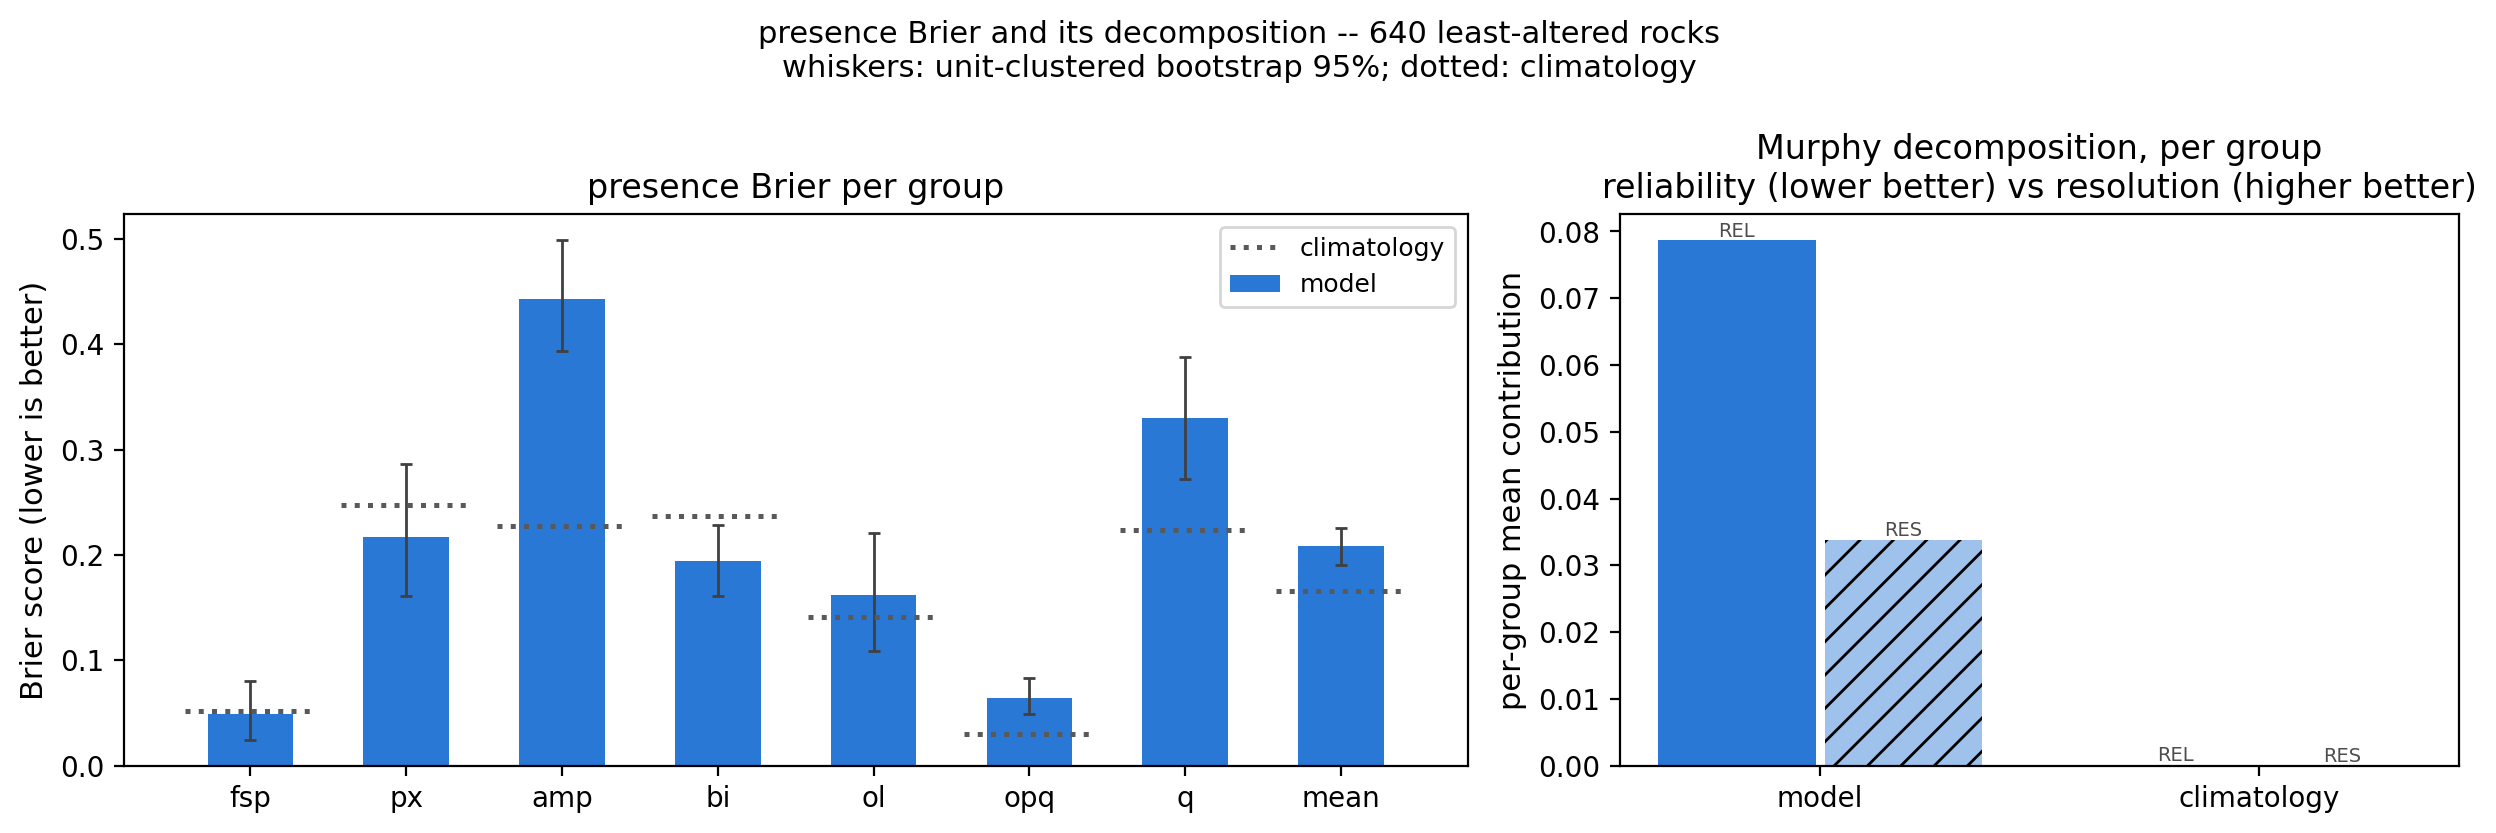
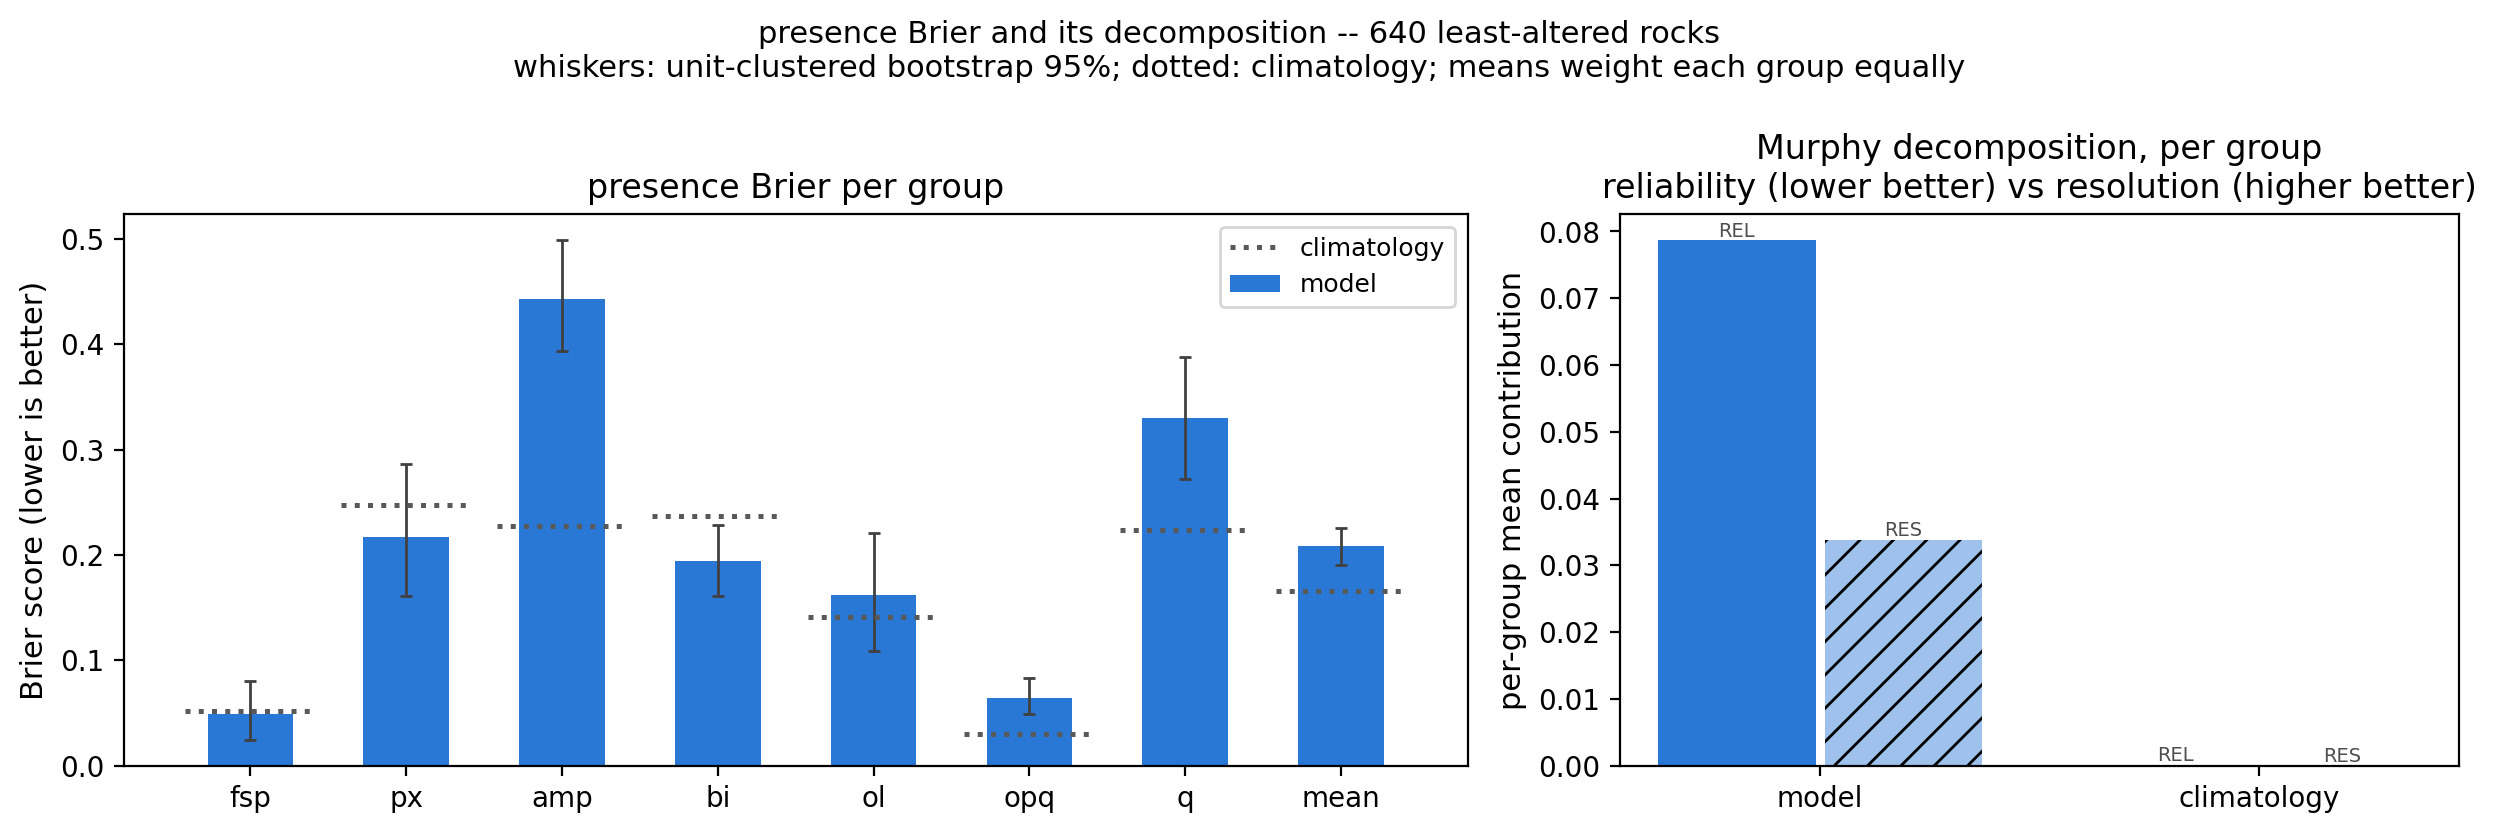
coverage-sharpness panel restored as the fifth promoted canvas (#59): 80% interval coverage per group with median width alongside; mixture_share_interval (bisected mixture Beta quantiles) for tailed arms; headline aggregation locked to equal-weight-per-group and stated in   captions (#58)

Changed region(s): [[0.1875, 0.0624, 0.7812, 0.0936]]

diff --git a/src/cnmineral/eval/real_rock.py b/src/cnmineral/eval/real_rock.py
@@ -1247,7 +1247,88 @@ def plot_presence_brier(
     ax2.set_title("Murphy decomposition, per group\nreliability (lower better) "
                   "vs resolution (higher better)", fontsize=TITLE_FS)
     _finish(fig, f"presence Brier and its decomposition -- {subtitle}\n"
-                 "whiskers: unit-clustered bootstrap 95%; dotted: climatology",
+                 "whiskers: unit-clustered bootstrap 95%; dotted: climatology; "
+                 "means weight each group equally",
+            out_path)
+
+
+ARM_COLORS = ("#2a78d6", "#d9622b", "#7a52a1")
+
+
+def plot_coverage_sharpness(
+    arms: dict[str, tuple[np.ndarray, np.ndarray]],
+    magnitude: np.ndarray, numeric: np.ndarray, unit: np.ndarray,
+    out_path: Path, subtitle: str, nominal: float = 0.8,
+) -> None:
+    """Do the stated credible intervals contain the measured shares?
+
+    Coverage alone is gameable -- diluting every forecast until the intervals
+    span the simplex reaches nominal vacuously -- so the companion panel shows
+    the median interval width that coverage was bought at.  Read together:
+    an honest fix moves coverage toward nominal while the width stays useful.
+
+    `arms` maps a label to that forecast's `(lo, hi)` interval arrays; a
+    "climatology" arm is drawn dotted like the other promoted panels.  Rocks
+    with a single quantified group are excluded: their marginal is a point
+    mass that always covers, so they carry no calibration information.
+    """
+    numeric_b = numeric.astype(bool)
+    eligible = numeric_b & (numeric_b.sum(1, keepdims=True) >= 2)
+    x = np.arange(len(GROUPS) + 1)
+    model_arms = [label for label in arms if label != "climatology"]
+    width = 0.8 / max(len(model_arms), 1)
+
+    fig, (ax1, ax2) = plt.subplots(1, 2, figsize=(12.5, 4.2))
+    for j, label in enumerate(model_arms):
+        lo, hi = arms[label]
+        covered = np.where(
+            eligible, (magnitude >= lo) & (magnitude <= hi), np.nan
+        ).astype(float)
+
+        def stat(rows, _c=covered):
+            with np.errstate(invalid="ignore"):
+                per_group = np.nanmean(_c[rows], axis=0)
+            return np.append(per_group, np.nanmean(per_group))
+
+        value = stat(np.arange(len(magnitude)))
+        ci_lo, ci_hi = _unit_bootstrap(stat, unit)
+        pos = x + (j - (len(model_arms) - 1) / 2) * width
+        color = ARM_COLORS[j % len(ARM_COLORS)]
+        ax1.bar(pos, value, width * 0.92, color=color, label=label)
+        ax1.errorbar(pos, value,
+                     yerr=[np.maximum(value - ci_lo, 0),
+                           np.maximum(ci_hi - value, 0)],
+                     fmt="none", ecolor="0.25", elinewidth=1.0, capsize=2)
+        med = [np.nanmedian(np.where(eligible[:, g], hi[:, g] - lo[:, g],
+                                     np.nan)) for g in range(len(GROUPS))]
+        ax2.bar(pos[:-1], med, width * 0.92, color=color, label=label)
+
+    if "climatology" in arms:
+        lo, hi = arms["climatology"]
+        cov = np.where(eligible, (magnitude >= lo) & (magnitude <= hi),
+                       np.nan).astype(float)
+        with np.errstate(invalid="ignore"):
+            per_group = np.nanmean(cov, axis=0)
+        for xi, v in zip(x, np.append(per_group, np.nanmean(per_group))):
+            ax1.plot([xi - 0.45, xi + 0.45], [v, v], ls=":", lw=1.8,
+                     color="0.35", label="climatology" if xi == 0 else None)
+
+    ax1.axhline(nominal, lw=1.0, color="0.2", ls="--")
+    ax1.annotate(f"nominal {nominal:.0%}", (0.01, nominal), ha="left",
+                 va="bottom", xycoords=("axes fraction", "data"), fontsize=8,
+                 color="0.2")
+    ax1.set_xticks(x, list(GROUPS) + ["mean"], fontsize=TICK_FS)
+    ax1.set_ylim(0, 1.02)
+    ax1.set_ylabel("empirical coverage of the stated 80% interval",
+                   fontsize=XLABEL_FS)
+    ax1.set_title("coverage per group", fontsize=TITLE_FS)
+    ax1.legend(fontsize=LEGEND_FS - 2)
+    ax2.set_xticks(x[:-1], list(GROUPS), fontsize=TICK_FS)
+    ax2.set_ylabel("median interval width (share units)", fontsize=XLABEL_FS)
+    ax2.set_title("sharpness: what that coverage costs", fontsize=TITLE_FS)
+    _finish(fig, f"interval calibration and its price -- {subtitle}\n"
+                 "whiskers: unit-clustered bootstrap 95%; dotted: climatology; "
+                 "means weight each group equally; single-group rocks excluded",
             out_path)
 
 
@@ -1273,6 +1354,38 @@ def share_interval(
         for p in q
     )
     return lo, hi
+
+
+def mixture_share_interval(
+    alpha7: np.ndarray, log_w: np.ndarray, mask: np.ndarray,
+    q: tuple[float, float] = (0.1, 0.9),
+) -> tuple[np.ndarray, np.ndarray]:
+    """`share_interval` for a K-component Dirichlet mixture.
+
+    Each component's marginal on the conditioned support is a Beta, so the
+    mixture CDF is the gate-weighted sum of Beta CDFs -- but its quantiles
+    have no closed form, so bisection finds them.  Fifty halvings of [0, 1]
+    put the answer well below any share the benchmark resolves.  At K = 1
+    this agrees with `share_interval` to that tolerance.
+    """
+    w = np.exp(log_w)
+    on = alpha7 * mask[:, None, :]
+    a = np.clip(on, 1e-9, None)
+    b = np.clip(on.sum(-1, keepdims=True) - on, 1e-9, None)
+
+    def cdf(t):
+        return (w[..., None] * betainc(a, b, t[:, None, :])).sum(1)
+
+    bounds = []
+    for p in q:
+        lo_t, hi_t = np.zeros(mask.shape), np.ones(mask.shape)
+        for _ in range(50):
+            mid = 0.5 * (lo_t + hi_t)
+            below = cdf(mid) < p
+            lo_t = np.where(below, mid, lo_t)
+            hi_t = np.where(below, hi_t, mid)
+        bounds.append(np.where(mask > 0, 0.5 * (lo_t + hi_t), np.nan))
+    return bounds[0], bounds[1]
 
 
 CARD_SHARE_FLOOR = 5e-4

diff --git a/scripts/view/real_rock_card.py b/scripts/view/real_rock_card.py
@@ -1,14 +1,15 @@
 """
 Real-rock headline figures: what the model does on real rocks, and what it costs.
 
-Four canvases from a joint-heads checkpoint, scored zero-shot on the
+Five canvases from a joint-heads checkpoint, scored zero-shot on the
 least-altered rocks of the eruption benchmark:
 
-    cohort_card.png      inputs, which minerals the model calls, how much of
-                         each on the measured and on its own assemblage
-    magnitude_ratio.png  per-rock magnitude error, paired
-    nll_distribution.png the headline split by term, against climatology
-    presence_brier.png   presence Brier and its Murphy decomposition
+    cohort_card.png         inputs, which minerals the model calls, how much
+                            of each on the measured and on its own assemblage
+    magnitude_ratio.png     per-rock magnitude error, paired
+    nll_distribution.png    the headline split by term, against climatology
+    presence_brier.png      presence Brier and its Murphy decomposition
+    coverage_sharpness.png  80% interval coverage and the width it costs
 
     python scripts/view/real_rock_card.py \\
         --checkpoint checkpoints/joint_heads_supportmag_seed0/heads_best.pt
@@ -32,12 +33,15 @@ from cnmineral.eval.mode_head import conditional_mean, mixture_conditional_mean
 from cnmineral.eval.real_rock import (
     climatology,
     load_benchmark,
+    mixture_share_interval,
     plot_cohort_card,
+    plot_coverage_sharpness,
     plot_magnitude_ratio,
     plot_nll_distribution,
     plot_presence_brier,
     predict,
     real_rock_nll,
+    share_interval,
 )
 from cnmineral.training import pick_device
 from cnmineral.training.joint_heads import JointHeadCheckpoint
@@ -103,6 +107,18 @@ def main() -> None:
     plot_presence_brier(
         p7[clean], null["p7"][clean], benchmark.presence[clean],
         benchmark.unit[clean], out_dir / "presence_brier.png", subtitle,
+    )
+    mask = benchmark.numeric.astype(np.float64)
+    if log_w is None:
+        lo, hi = share_interval(alpha7, mask)
+    else:
+        lo, hi = mixture_share_interval(alpha7, log_w, mask)
+    null_lo, null_hi = share_interval(null["alpha7"], mask)
+    plot_coverage_sharpness(
+        {"model": (lo[clean], hi[clean]),
+         "climatology": (null_lo[clean], null_hi[clean])},
+        benchmark.magnitude[clean], benchmark.numeric[clean],
+        benchmark.unit[clean], out_dir / "coverage_sharpness.png", subtitle,
     )
 
 

diff --git a/tests/eval/test_real_rock.py b/tests/eval/test_real_rock.py
@@ -23,6 +23,7 @@ from cnmineral.eval.real_rock import (
     censored_consistency,
     load_benchmark,
     load_real_rock_split,
+    mixture_share_interval,
     murphy,
     parse_alteration_grade,
     real_rock_nll,
@@ -588,3 +589,42 @@ def test_brier_decomposes_into_uncertainty_resolution_reliability():
     uncertainty = y.mean() * (1 - y.mean())
     assert ((p - y) ** 2).mean() == pytest.approx(uncertainty - res + rel,
                                                   abs=5e-3)
+
+
+def test_mixture_share_interval_reduces_to_share_interval_at_one_component():
+    """The bisected mixture quantiles must agree with the closed-form Beta
+    ones when the mixture is a single component, or the tailed recalibrator's
+    coverage numbers are not comparable with the single-Dirichlet arms'."""
+    from cnmineral.eval.real_rock import share_interval
+
+    rng = np.random.default_rng(5)
+    alpha = rng.uniform(0.5, 8.0, (40, len(GROUPS)))
+    mask = (rng.uniform(size=(40, len(GROUPS))) < 0.6).astype(float)
+    mask[:, :2] = 1.0
+    lo_ref, hi_ref = share_interval(alpha, mask)
+    lo, hi = mixture_share_interval(
+        alpha[:, None, :], np.zeros((40, 1)), mask
+    )
+    m = mask > 0
+    np.testing.assert_allclose(lo[m], lo_ref[m], atol=1e-9)
+    np.testing.assert_allclose(hi[m], hi_ref[m], atol=1e-9)
+    assert np.isnan(lo[~m]).all() and np.isnan(hi[~m]).all()
+
+
+def test_mixture_share_interval_contamination_widens_the_interval():
+    """A diluted second component fattens the tails, so the mixture interval
+    is strictly wider than the sharp component's -- that widening is the whole
+    point of the precision contamination.  (The upper quantile alone need not
+    move up: on a small-share group the diluted component piles mass near
+    zero, so the widening can come entirely from the lower end.)"""
+    rng = np.random.default_rng(6)
+    alpha = rng.uniform(1.0, 8.0, (30, len(GROUPS)))
+    mask = np.ones((30, len(GROUPS)))
+    from cnmineral.eval.real_rock import share_interval
+
+    lo_sharp, hi_sharp = share_interval(alpha, mask)
+    stack = np.stack([alpha, alpha * 0.05], axis=1)
+    log_w = np.log(np.tile([0.8, 0.2], (30, 1)))
+    lo, hi = mixture_share_interval(stack, log_w, mask)
+    assert (lo <= lo_sharp + 1e-9).all()
+    assert ((hi - lo) > (hi_sharp - lo_sharp)).all()

diff --git a/tests/TESTS.md b/tests/TESTS.md
@@ -321,12 +321,14 @@ rename, or repurpose a test) updates this file in the same change.**
 
 ### test_real_rock_recalibrator.py
 
-1. `test_recalibrator_is_the_identity_at_initialization` -- an unfit recalibrator reproduces the zero-shot outputs exactly, which is what lets a fitted one's gain read as nats recovered on the ledger's scale.
+1. `test_recalibrator_is_the_identity_at_initialization` -- an unfit recalibrator reproduces the zero-shot outputs exactly (for `tailed`, dilution 1 at init collapses the mixture so both components equal the input), which is what lets a fitted one's gain read as nats recovered on the ledger's scale.
 2. `test_structural_zeros_survive_the_magnitude_correction` -- coarsening leaves alpha 0 where a group has no member on the support; the correction is multiplicative so those stay 0 rather than becoming -inf.
-3. `test_richer_tiers_contain_the_vector_tier_exactly` -- copying a fitted vector tier's parameters into `matrix` / `mlp` reproduces it, so the 23-param affine is the degenerate case rather than a rival.
-4. `test_amphibole_magnitude_is_pinned_at_every_tier` -- the pin holds through the mixing matrix and the MLP, not only the constant, since a coupled correction would be the same unidentifiable quantity reparameterized.
+3. `test_richer_tiers_contain_the_vector_tier_exactly` -- copying a fitted vector tier's parameters into `matrix` / `mlp` / `tailed` reproduces it, so the 23-param affine is the degenerate case rather than a rival.
+4. `test_amphibole_magnitude_is_pinned_at_every_tier` -- the pin holds through the mixing matrix and the MLP, not only the constant; for `tailed` it means no amp-specific term -- the sharp component's amp alpha is the input exactly and the wide component dilutes amp by the same global factor as every group.
 5. `test_off_support_groups_contribute_a_neutral_log_feature` -- scaling the mixing weights that read an off-support column is a no-op, which only holds if that column enters as 0 rather than log(tiny).
-6. `test_unknown_tier_is_rejected` -- a mistyped tier raises rather than silently falling back.
+6. `test_tailed_contamination_is_mean_preserving` -- the wide component is the sharp one diluted: identical mean shares, lower precision, normalized gate weights.
+7. `test_tailed_composes_with_mixture_head_input` -- K-component input comes back as a 2K-component mixture with normalized weights.
+8. `test_unknown_tier_is_rejected` -- a mistyped tier raises rather than silently falling back.
 
 ## training/
 
@@ -563,6 +565,8 @@ rename, or repurpose a test) updates this file in the same change.**
 37. `test_climatology_concentration_beats_its_grid_neighbours` -- the null's one free parameter is the grid optimum on the fit rows, so the baseline is the strongest version of itself rather than a straw man.
 38. `test_murphy_terms_separate_calibration_from_discrimination` -- quoting the base rate scores zero reliability and zero resolution; naming the outcome scores zero reliability and resolution equal to the uncertainty.
 39. `test_brier_decomposes_into_uncertainty_resolution_reliability` -- the two terms account for the Brier score rather than merely describing it.
+40. `test_mixture_share_interval_reduces_to_share_interval_at_one_component` -- the bisected mixture quantiles agree with the closed-form Beta ones at K=1, so the tailed recalibrator's coverage numbers stay comparable with the single-Dirichlet arms'.
+41. `test_mixture_share_interval_contamination_widens_the_interval` -- a diluted second component yields a strictly wider interval than the sharp component's, though on a small-share group the widening can come entirely from the lower end.
 
 ### test_summary_cards.py
 
